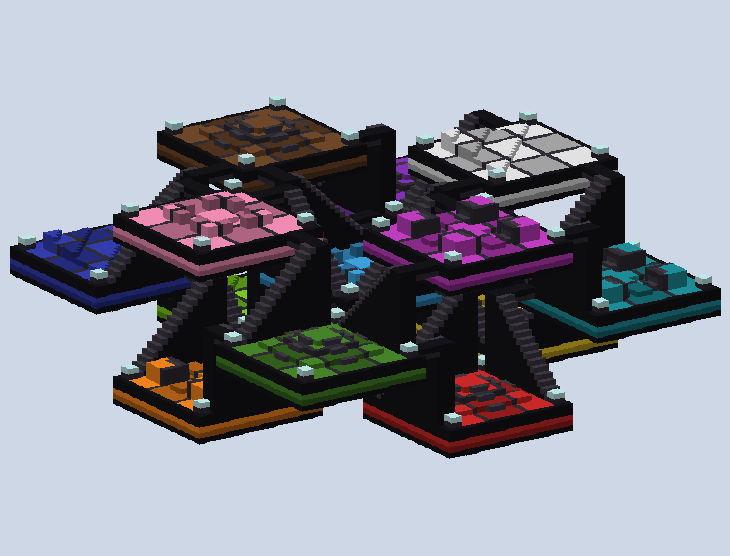
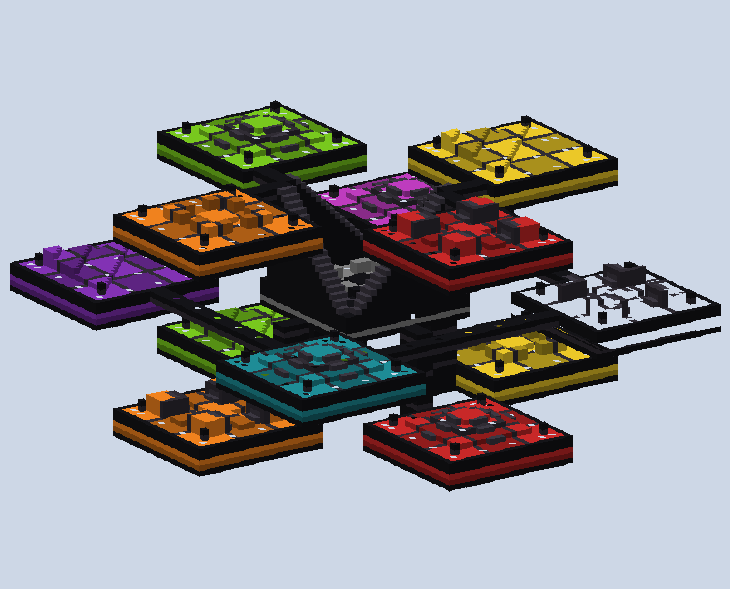
큐브 맵 v2: 검정 길/테두리, 밝기 블록 조명, 층 높이 18, 세로줄별 색(가운데 검정), 위층-가운데 길 + 가운데층 순환 다리 + 아래층 장식 지지대
Claude-Session: https://claude.ai/code/session_01EwZZVVryyuuoVuhYQeB1VP

Changed region(s): [[0.0, 0.1529, 0.9945, 0.8561]]

diff --git a/mapgen/cube_map.py b/mapgen/cube_map.py
@@ -1,15 +1,17 @@
 #!/usr/bin/env python3
-"""큐브 맵 생성기: 3x3x3 큐브 퍼즐 형태의 플랫폼 맵 -> Sponge .schem(v2) + 미리보기 + 도달 검증.
+"""큐브 맵 생성기 v2: 3x3x3 큐브 퍼즐 형태의 플랫폼 맵 -> Sponge .schem(v2) + 미리보기 + 도달 검증.
 사용: python3 cube_map.py <출력 폴더>
-조각 규칙: 각 면의 1,3,5,7,9번(모서리 4 + 중앙)이 빠진 큐브 = 남는 조각 13개
-  아래층(4): 모서리 없는 변 가운데 조각 / 가운데층(5): 세로 모서리 4 + 중심 / 위층(4): 아래층과 같은 자리
+조각 규칙: 아래층 4(상하좌우) / 가운데층 5(모서리 4 + 중앙) / 위층 4(상하좌우) = 13조각.
+  색: 세로줄(cx,cz)마다 색이 하나. 같은 세로줄(아래층-위층 변 조각)은 같은 색, 가운데 조각은 검정.
+  길: 위층 4조각 <-> 가운데 조각(계단길 + 다리) / 가운데층 모서리 4조각끼리 사각형 순환 다리 / 아래층 4조각은 가운데와 이어진 장식 지지대뿐(걸을 수 없음).
+  조명: 밝기 블록(minecraft:light, 밝기 15)을 곳곳에 숨겨 둔다(밤 전투용).
 조정 상수: CELL(조각 한 변), GAP(조각 사이 간격), H(층 높이), T(판 두께)
 """
 import sys, gzip, struct, math, os
 import numpy as np
 
 CELL = 25; GAP = 5; PITCH = CELL + GAP
-H = 15            # 층 사이 높이(검은 길이 H칸 걸려 올라간다)
+H = 18            # 층 사이 높이(검은 길이 H칸 걸려 올라간다. 계단 H + 착지 3 이 변(25)에 들어가야 한다)
 T = 5             # 판 두께
 BASE = 14         # 가장 아래 판의 윗면 y(아래 장식 공간)
 SX = CELL * 3 + GAP * 2
@@ -42,7 +44,6 @@ STAIR = 'minecraft:polished_blackstone_brick_stairs'
 def stair(facing): return f'{STAIR}[facing={facing},half=bottom,shape=straight]'
 DIRS = {'north': (0, -1), 'south': (0, 1), 'west': (-1, 0), 'east': (1, 0)}
 
-COLORS = ['red', 'orange', 'yellow', 'lime', 'green', 'cyan', 'light_blue', 'blue', 'purple', 'magenta', 'pink', 'white', 'brown']
 
 # 조각 목록 (cx, cz, cy)
 pieces = []
@@ -52,7 +53,9 @@ for cy in (0, 2):
 for cx, cz in ((0, 0), (2, 0), (0, 2), (2, 2), (1, 1)):
     pieces.append((cx, cz, 1))
 pieces.sort(key=lambda p: (p[2], p[1], p[0]))
-color_of = {p: COLORS[i] for i, p in enumerate(pieces)}
+COL_BY_COLUMN = {(1, 0): 'red', (0, 1): 'orange', (2, 1): 'yellow', (1, 2): 'lime',
+                 (0, 0): 'cyan', (2, 0): 'light_blue', (0, 2): 'purple', (2, 2): 'magenta', (1, 1): 'black'}
+color_of = {p: COL_BY_COLUMN[(p[0], p[1])] for p in pieces}
 tmpl_of = {p: i % 4 for i, p in enumerate(pieces)}
 rot_of = {p: i % 4 for i, p in enumerate(pieces)}
 
@@ -68,7 +71,7 @@ def sticker(color, lx, lz):
     if lx in (0, CELL - 1) or lz in (0, CELL - 1):
         return BLACK
     if lx in (8, 16) or lz in (8, 16):
-        return PB
+        return 'minecraft:gray_concrete' if color == 'black' else PB
     ti = (lx - 1) // 8; tj = (lz - 1) // 8
     return main if (ti + tj) % 2 == 0 else acc
 
@@ -95,10 +98,10 @@ def build_slab(p):
         ins = k * 2 + 1
         if CELL - 2 * ins < 3: break
         fill(x0 + ins, x0 + CELL - 1 - ins, ys - T - k + 1, ys - T - k + 1, z0 + ins, z0 + CELL - 1 - ins, PB if k % 2 else BLACK)
-    # 모서리 등(검은 기둥 + 바다등)
-    for cx_, cz_ in ((1, 1), (CELL - 3, 1), (1, CELL - 3), (CELL - 3, CELL - 3)):
-        fill(x0 + cx_, x0 + cx_ + 1, ys + 1, ys + 1, z0 + cz_, z0 + cz_ + 1, PB)
-        fill(x0 + cx_, x0 + cx_ + 1, ys + 2, ys + 2, z0 + cz_, z0 + cz_ + 1, 'minecraft:sea_lantern')
+    # 모서리 장식 기둥(1x1, 높이 2)
+    for cx_, cz_ in ((3, 3), (CELL - 4, 3), (3, CELL - 4), (CELL - 4, CELL - 4)):
+        put(x0 + cx_, ys + 1, z0 + cz_, PB)
+        put(x0 + cx_, ys + 2, z0 + cz_, BLACK)
 
 def col_block(p, x, z):  # 지형 블록(바닥 무늬와 같은 색)
     return sticker(color_of[p], x, z)
@@ -190,7 +193,7 @@ pset = set(pieces)
 for p in pieces:
     for d in DIRS:
         q0 = nb(p, d)
-        for cy2 in (p[2] + 1,):
+        for cy2 in ((p[2] + 1,) if p[:2] == (1, 1) else ()):
             q = (q0[0], q0[1], cy2)
             if q in pset:
                 # 허용 링크: 아래층 변조각 -> 가운데(모서리/중심) ; 가운데 모서리 -> 위층 ; 가운데 중심 -> 위층
@@ -209,9 +212,9 @@ def build_link(lo, up, d, idx):
         inward_x = 1 if d == 'west' else -1  # 판 안쪽으로 들어오는 방향(깊이 증가)
         # 계단은 z 방향으로 올라간다. 폭 3 = 깊이 0..2
         if forward:
-            zs, dn = z0 + 3, 'south'
+            zs, dn = z0 + 2, 'south'
         else:
-            zs, dn = z0 + 20, 'north'
+            zs, dn = z0 + 22, 'north'
         for k in range(n):
             cz = zs + (k if forward else -k)
             for w in range(3):
@@ -235,9 +238,9 @@ def build_link(lo, up, d, idx):
         ez = z0 if d == 'north' else z0 + CELL - 1
         inward_z = 1 if d == 'north' else -1
         if forward:
-            xs, dn = x0 + 3, 'east'
+            xs, dn = x0 + 2, 'east'
         else:
-            xs, dn = x0 + 20, 'west'
+            xs, dn = x0 + 22, 'west'
         for k in range(n):
             cx = xs + (k if forward else -k)
             for w in range(3):
@@ -256,6 +259,87 @@ def build_link(lo, up, d, idx):
                 put(cx, yu, cz, BLACK)
                 put(cx, yu - 1, cz, PB)
 
+LIGHT = 'minecraft:light[level=15,waterlogged=false]'
+lights = []
+
+def add_light_scan():
+    """계단 4칸마다(계단 위 2칸 높이), 다리 5칸마다, 판 위 6칸 격자로 밝기 블록을 숨긴다(빈 칸일 때만)."""
+    # 판 위: 지형 위 첫 빈 칸(바닥 +1 ~ +5)
+    for p in pieces:
+        x0, ys, z0 = origin(p)
+        for lx in (2, 8, 14, 20, 24 - 2):
+            for lz in (2, 8, 14, 20, 24 - 2):
+                for y in range(ys + 1, ys + 6):
+                    if grid[x0 + lx, y, z0 + lz] == 0:
+                        lights.append((x0 + lx, y, z0 + lz)); break
+    # 계단/다리: 바닥(계단 블록) 위 2칸에
+    stair_ids = {i for n, i in palette.items() if 'stairs' in n}
+    xs, ys_, zs = np.nonzero(np.isin(grid, list(stair_ids)))
+    for x, y, z in zip(xs, ys_, zs):
+        if (x + y + z) % 4 == 0 and grid[x, y + 1, z] == 0 and grid[x, y + 2, z] == 0:
+            lights.append((x, y + 2, z))
+    for (x, y, z) in lights:
+        if grid[x, y, z] == 0: put(x, y, z, LIGHT)
+    add_light_fill()
+
+def add_light_fill(target=9, limit=600):
+    """걸을 수 있는 칸 중 밝기(밝기 블록까지 맨해튼 거리로 근사: 15 - 거리)가 target 미만인 곳에 밝기 블록을 더 둔다.
+    실제 빛 퍼짐은 블록에 막히므로 이 값은 낙관적인 근사다(미검증: 서버에서 F3 으로 밝기 확인)."""
+    lid = palette[LIGHT]
+    src = np.argwhere(grid == lid)
+    sol = (grid != 0) & (grid != lid)
+    st = sol[:, :-3, :] & ~sol[:, 1:-2, :] & ~sol[:, 2:-1, :]
+    pts = np.argwhere(st); pts[:, 1] += 1
+    best = np.zeros(len(pts), dtype=int)
+    for s_ in src:
+        best = np.maximum(best, 15 - np.abs(pts - s_).sum(axis=1))
+    added = 0
+    while added < limit:
+        i = int(np.argmin(best))
+        if best[i] >= target: break
+        x, y, z = pts[i]
+        put(int(x), int(y) + 1, int(z), LIGHT)
+        best = np.maximum(best, 15 - np.abs(pts - np.array([x, y + 1, z])).sum(axis=1))
+        added += 1
+    print('light fill added', added, 'min', int(best.min()), 'mean', round(float(best.mean()), 1))
+
+def build_loop():
+    """가운데층 모서리 4조각을 잇는 사각형 순환 다리(폭 3, 가운데 a=11..13). 모서리 -> 빠진 변 조각 자리를 가로지른다."""
+    yv = ytop(1)
+    def span(a, b, axis):
+        xa, _, za = origin(a); xb, _, zb = origin(b)
+        if axis == 'x':   # a -> b 가 +x 방향 (같은 z 줄)
+            for xx in range(xa + CELL, xb):
+                for w in (11, 12, 13):
+                    put(xx, yv, za + w, BLACK); put(xx, yv - 1, za + w, PB)
+                    if (xx - xa) % 6 == 0: lights.append((xx, yv + 1, za + 12))
+        else:
+            for zz in range(za + CELL, zb):
+                for w in (11, 12, 13):
+                    put(xa + w, yv, zz, BLACK); put(xa + w, yv - 1, zz, PB)
+                    if (zz - za) % 6 == 0: lights.append((xa + 12, yv + 1, zz))
+    span((0, 0, 1), (2, 0, 1), 'x')
+    span((0, 2, 1), (2, 2, 1), 'x')
+    span((0, 0, 1), (0, 2, 1), 'z')
+    span((2, 0, 1), (2, 2, 1), 'z')
+
+def build_braces():
+    """아래층 4조각과 가운데 조각을 잇는 장식 지지대(3폭, 간격 5칸). 윗면이 가운데 조각 바닥 높이라서 걸어서 못 쓴다."""
+    ytop_mid = ytop(1)
+    ytop_lo = ytop(0)
+    for lo, d in (((1, 0, 0), 'south'), ((0, 1, 0), 'east'), ((2, 1, 0), 'west'), ((1, 2, 0), 'north')):
+        x0, _, z0 = origin(lo)
+        y0 = ytop_lo - 4
+        y1 = ytop_mid - T + 1
+        for g in range(GAP):
+            for w in (11, 12, 13):
+                if d == 'south': cx, cz = x0 + w, z0 + CELL + g
+                elif d == 'north': cx, cz = x0 + w, z0 - 1 - g
+                elif d == 'east': cx, cz = x0 + CELL + g, z0 + w
+                else: cx, cz = x0 - 1 - g, z0 + w
+                for y in range(y0, y1 + 1):
+                    put(cx, y, cz, PB if (y - y0) % 6 == 5 else BLACK)
+
 def main(out):
     os.makedirs(out, exist_ok=True)
     for p in pieces: build_slab(p)
@@ -264,6 +348,9 @@ def main(out):
     sel = [(a, b, d) for (a, b, d) in links]
     for i, (a, b, d) in enumerate(sel):
         build_link(a, b, d, i)
+    build_loop()
+    build_braces()
+    add_light_scan()
     write_schem(os.path.join(out, 'cube_map.schem'))
     return sel
 
@@ -300,24 +387,19 @@ def write_schem(path):
 # ---------- 도달 검증 ----------
 def solid(x, y, z):
     if not (0 <= x < SX and 0 <= y < SY and 0 <= z < SZ): return False
-    return grid[x, y, z] != 0
+    v = grid[x, y, z]
+    return v != 0 and v != palette.get(LIGHT, -1)
 
-def verify():
+def reach_from(p0):
+    """p0 조각 윗면에서 걸어서(1칸 오름 허용) 닿는 조각 집합."""
     from collections import deque
     def standable(x, y, z):
         return solid(x, y - 1, z) and not solid(x, y, z) and not solid(x, y + 1, z)
-    sx, sy, sz = origin(pieces[0])
-    start = (sx + 12, sy + 1, sz + 12)
-    # 시작: 첫 조각 중앙은 지형일 수 있으니 서 있을 수 있는 가장 가까운 점 탐색
-    seen = {start: 0}
-    if not standable(*start):
-        for dx in range(-3, 4):
-            for dz in range(-3, 4):
-                for dy in range(0, 5):
-                    s = (sx + 12 + dx, sy + 1 + dy, sz + 12 + dz)
-                    if standable(*s): start = s; break
-                else: continue
-                break
+    sx, sy, sz = origin(p0)
+    start = None
+    for (lx, lz) in ((12, 1), (1, 12), (12, 23), (23, 12), (1, 1)):
+        c = (sx + lx, sy + 1, sz + lz)
+        if standable(*c): start = c; break
     seen = {start}
     dq = deque([start])
     while dq:
@@ -325,26 +407,30 @@ def verify():
         for dx, dz in ((1, 0), (-1, 0), (0, 1), (0, -1)):
             nx, nz = x + dx, z + dz
             for ny in (y + 1, y, y - 1, y - 2, y - 3):
-                if ny == y + 1 and (solid(x, y + 1, z) or solid(x, y + 2, z)):  # 점프 공간
+                if ny == y + 1 and (solid(x, y + 1, z) or solid(x, y + 2, z)):
                     continue
                 if standable(nx, ny, nz) and (nx, ny, nz) not in seen:
-                    # 오를 때(+1)는 점프, 내릴 때는 자유
-                    seen.add((nx, ny, nz)); dq.append((nx, ny, nz))
-                    break
-    reached = {}
+                    seen.add((nx, ny, nz)); dq.append((nx, ny, nz)); break
+    out = set()
     for p in pieces:
         x0, ys, z0 = origin(p)
-        cnt = sum(1 for (x, y, z) in seen if x0 <= x < x0 + CELL and z0 <= z < z0 + CELL and ys - 1 <= y <= ys + 5)
-        reached[p] = cnt
-    return reached, len(seen)
+        if any(x0 <= x < x0 + CELL and z0 <= z < z0 + CELL and ys - 1 <= y <= ys + 6 for (x, y, z) in seen):
+            out.add(p)
+    return out, len(seen)
 
 if __name__ == '__main__':
     out = sys.argv[1] if len(sys.argv) > 1 else '.'
     sel = main(out)
-    r, total = verify()
-    print('standable cells reached:', total)
-    for p in pieces: print(p, color_of[p], 'tmpl', tmpl_of[p], 'reached', r[p])
-    print('palette', len(palette), 'size', SX, SY, SZ, 'links', len(sel))
+    print('size', SX, SY, SZ, 'palette', len(palette), 'lights', len(lights), 'links', len(sel))
+    # 구역 검증: 기대 = {가운데+위층 4}, {가운데층 모서리 4}, {아래층 각 1개(단독)}
+    seen_groups = []
+    for p in pieces:
+        r, n = reach_from(p)
+        grp = tuple(sorted(r))
+        if grp not in seen_groups:
+            seen_groups.append(grp)
+    for g in seen_groups:
+        print('group:', [(q, color_of[q]) for q in g])
     np.save(os.path.join(out, 'grid.npy'), grid)
     import json
     json.dump(pal_list, open(os.path.join(out, 'pal.json'), 'w'))
